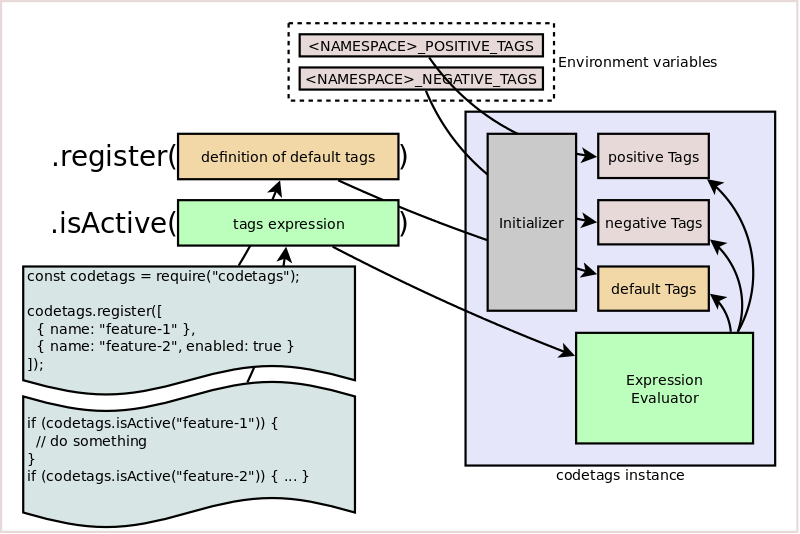
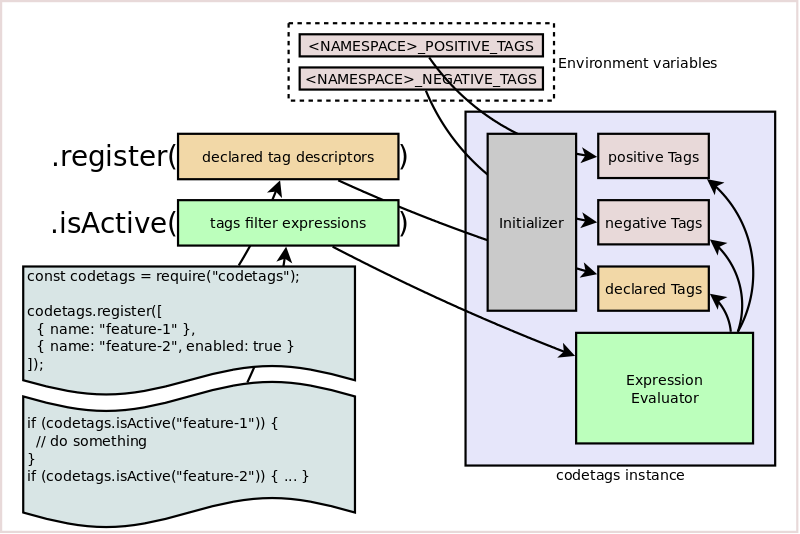
Update diagrams, README; add testcases for newInstance, getInstance [codetags]

diff --git a/src/codetags.js b/src/codetags.js
@@ -6,7 +6,7 @@ const nodash = require('./nodash');
 const DEFAULT_NAMESPACE = 'CODETAGS';
 
 function Codetags(args) {
-  const store = { env: {}, activeTags: [], cachedTags: {} };
+  const store = { env: {}, declaredTags: [], cachedTags: {} };
   const presets = {};
 
   this.initialize = function(cfg = {}) {
@@ -55,7 +55,7 @@ function Codetags(args) {
 
   this.reset = function() {
     this.clearCache();
-    store.activeTags.length = 0;
+    store.declaredTags.length = 0;
     for(const attr in presets) {
       delete presets[attr];
     }
@@ -105,12 +105,12 @@ function addDescriptors(presets, store, descriptors) {
         return def.tag || def.name || def.label;
       });
     tags.forEach(function(tag) {
-      if (store.activeTags.indexOf(tag) < 0) {
-        store.activeTags.push(tag);
+      if (store.declaredTags.indexOf(tag) < 0) {
+        store.declaredTags.push(tag);
       }
     });
   }
-  return store.activeTags;
+  return store.declaredTags;
 }
 
 function isVersionValid(version) {
@@ -221,7 +221,7 @@ function checkLabelActivated(store, label) {
 
 function forceCheckLabelActivated(store, label) {
   if (store.negativeTags.indexOf(label) >= 0) return false;
-  if (store.activeTags.indexOf(label) >= 0) return true;
+  if (store.declaredTags.indexOf(label) >= 0) return true;
   return (store.positiveTags.indexOf(label) >= 0);
 }
 
@@ -230,19 +230,30 @@ const BRANCH_REF = {};
 const singleton = BRANCH_REF[DEFAULT_NAMESPACE] = new Codetags();
 
 singleton.newInstance = function(name, opts = {}) {
-  if (!nodash.isString(name)) {
-    throw new Error('name of a codetags space must be a string');
-  }
   name = nodash.labelify(name);
+  if (!nodash.isString(name)) {
+    throw new Error('name of a codetags instance must be a string');
+  }
   if (name === DEFAULT_NAMESPACE) {
-    throw new Error(DEFAULT_NAMESPACE + ' is default space name. Please provides another name.');
+    throw new Error([
+      DEFAULT_NAMESPACE + ' is default instance name.',
+      'Please provides another name.'
+    ].join(' '));
   }
   opts.namespace = opts.namespace || name;
   return BRANCH_REF[name] = new Codetags(opts);
 }
 
 singleton.getInstance = function(name, opts) {
-  return BRANCH_REF[name] = BRANCH_REF[name] || this.newInstance(name, opts);
+  name = nodash.labelify(name);
+  if (nodash.isObject(BRANCH_REF[name])) {
+    if (nodash.isObject(opts)) {
+      BRANCH_REF[name].initialize(opts);
+    }
+  } else {
+    BRANCH_REF[name] = this.newInstance(name, opts);
+  }
+  return BRANCH_REF[name];
 }
 
 module.exports = singleton;

diff --git a/test/tdd/codetags-test.js b/test/tdd/codetags-test.js
@@ -92,6 +92,51 @@ describe('codetags', function() {
     });
   });
 
+  describe('getInstance()', function() {
+    it('should return the default instance', function() {
+      assert.equal(codetags, codetags.getInstance('codetags'));
+      assert.equal(codetags, codetags.getInstance('CodeTags'));
+    });
+    it('should create an unexisted instance', function() {
+      const mytags = codetags.getInstance('unexisted');
+      assert.isObject(mytags);
+      assert.notEqual(codetags, mytags);
+    });
+    it('should throw an error if provided name is not a string', function() {
+      assert.throws(function() {
+        codetags.getInstance();
+      }, 'name of a codetags instance must be a string');
+      assert.throws(function() {
+        codetags.getInstance(1024);
+      }, 'name of a codetags instance must be a string');
+    });
+  });
+
+  describe('newInstance()', function() {
+    it('should throw an error if provided name is not a string', function() {
+      assert.throws(function() {
+        codetags.newInstance();
+      }, 'name of a codetags instance must be a string');
+      assert.throws(function() {
+        codetags.newInstance(1024);
+      }, 'name of a codetags instance must be a string');
+    });
+    it('should throw an error if provided name is equal to default name', function() {
+      assert.throws(function() {
+        codetags.newInstance('codetags');
+      }, 'CODETAGS is default instance name. Please provides another name.');
+    });
+    it('should create and return a new instance', function() {
+      const codetags1 = codetags.newInstance('example');
+      const codetags2 = codetags.newInstance('example');
+      const codetags3 = codetags.getInstance('example');
+      assert.notEqual(codetags, codetags1);
+      assert.notEqual(codetags, codetags2);
+      assert.notEqual(codetags1, codetags2);
+      assert.equal(codetags2, codetags3);
+    });
+  });
+
   after(function() {
     envmask.reset();
     codetags.reset();

diff --git a/README.md b/README.md
@@ -18,7 +18,7 @@ A default `codetags` instance can be retrieved simply by a `require` call:
 const codetags = require('codetags');
 ```
 
-We can create multiple `codetags's instance` with `newInstance` or `getInstance` methods. Call to both will create a codetags instance, but the `getInstance` create a new instance only if it has not existed before.
+We can create multiple `codetags's instance` with `newInstance` or `getInstance` methods. Call to both will create a codetags instance, but the `getInstance` creates a new instance only if it has not existed before.
 
 ```javascript
 const codetags = require('codetags');
@@ -128,7 +128,7 @@ This method returns the `codetags` instance itself.
 
 ### `.register(descriptors)`
 
-Method `register()` is used to define the default `activeTags` collection.
+Method `register()` is used to define the default `declaredTags` collection.
 
 The argument `descriptors` is an array of `descriptor` objects which of each describing a string label together with the range of versions that will be applied.
 
@@ -167,7 +167,7 @@ This method returns the `codetags` instance itself.
 
 ### `.isActive(tagexps)`
 
-Method `isActive()` evaluates tags filter expressions (named `tagexp`) based on three collections of tags (`activeTags`, `positiveTags`, `negativeTags`) to determine whether it is accepted or denied. An expression of tags is composed by string labels, arrays, hashmaps and conditional operators (`$all`, `$any`, `$not`).
+Method `isActive()` evaluates tags filter expressions (named `tagexp`) based on three collections of tags (`declaredTags`, `positiveTags`, `negativeTags`) to determine whether it is accepted or denied. An expression of tags is composed by string labels, arrays, hashmaps and conditional operators (`$all`, `$any`, `$not`).
 
 #### `tagexp` is a single string
 
@@ -183,7 +183,7 @@ if (codetags.isActive(tagexp)) {
 Function call `codetags.isActive(tagexp)` returns `true` when:
 
 * `negativeTags` does not contain `tagexp-is-a-string`;
-* at least one of `positiveTags` and `defaultTags` contains `tagexp-is-a-string`.
+* at least one of `positiveTags` and `declaredTags` contains `tagexp-is-a-string`.
 
 #### `tagexp` is an array of sub-tagexps
 
@@ -233,7 +233,11 @@ Syntax:
 codetags.isActive(tagexp1, tagexp2, tagexp3);
 ```
 
-The above function call will return `true` if there is at least one of arguments satisfies the function `codetags.isActive`.
+The above function call will return `true` if there is at least one of `tagexp` arguments satisfies the function `codetags.isActive`. It is equivalent to the following expression:
+
+```javascript
+codetags.isActive(tagexp1) || codetags.isActive(tagexp2) || codetags.isActive(tagexp3) 
+```
 
 ### `.clearCache()`
 
@@ -241,11 +245,20 @@ Method `clearCache()` clears the cached values of tags filtering result as well 
 
 ### `.reset()`
 
-Method `reset()` invokes the method `clearCache()` as well as clears the values of `activeTags` collections that defined by `register()` method. This method also returns the `codetags` instance itself.
+Method `reset()` invokes the method `clearCache()` as well as clears the values of `declaredTags` collections that defined by `register()` method. This method also returns the `codetags` instance itself.
 
-### `.getInstance(name, options)`
+### `.newInstance(name, opts)`
 
-### `.newInstance(name, options)`
+Method `newInstance()` creates a new instance in each time it is called and assigns `name` to this instance. The `name` value is associated with the latest instance. If you want to retrieve the already created instance, using `getInstance` instead. The arguments can be:
+
+* `name`: a string as name (using in `getInstance()` to retrieve the instance);
+* `opts`: an option object that is similar to which in `initialize()`;
+
+This method returns the created instance.
+
+### `.getInstance(name, opts)`
+
+Method `getInstance()` returns the instance associated to `name` or creates a new instance when it has not existed before. Its arguments are the same with the method `newInstance()`.
 
 ## Examples
 
